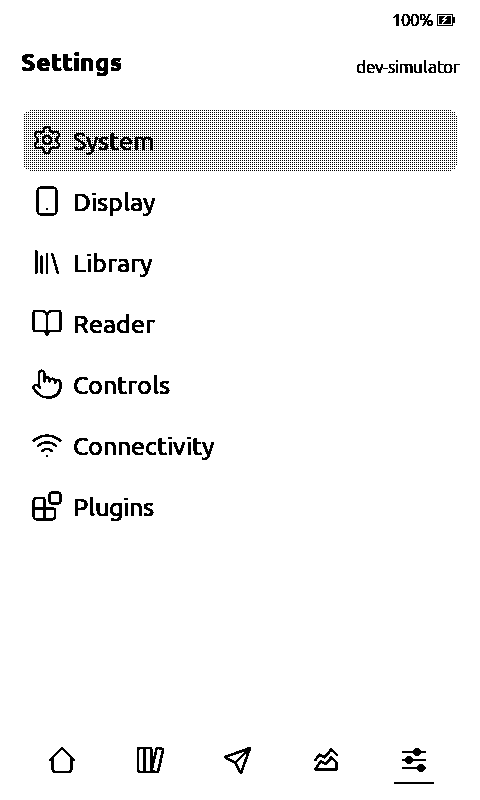
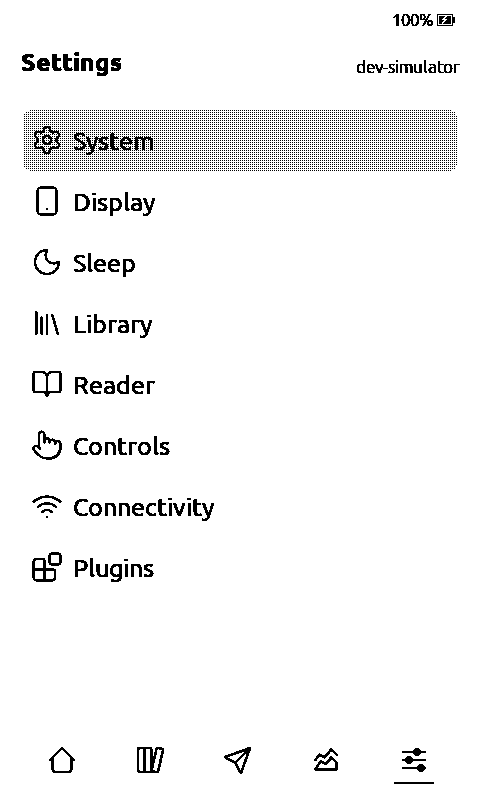
fix: make Sleep its own Settings section
Sleep moves from a sub-screen under Display to a section of its own,
right after Display, with the moon icon. The guide gets a matching
§3.6.3 and the Settings screenshot is retaken.

diff --git a/src/activities/settings/SettingsActivity.cpp b/src/activities/settings/SettingsActivity.cpp
@@ -83,22 +83,20 @@ bool showOnDevice(const SettingInfo& setting) {
 
 // End = not a row here: other categories (KOReader Sync, Status Bar, ...)
 // only group the web UI; their rows live on their own sub-screens.
-// Sleep and Shortcuts belong to a section but open as a sub-screen from a row
-// in it (isSubScreenCategory); a new sub-screen category goes in both functions.
+// Shortcuts belongs to Controls but opens as a sub-screen from a row in it
+// (isSubScreenCategory); a new sub-screen category goes in both functions.
 SettingsSection sectionFor(const SettingInfo& setting) {
   if (setting.category == StrId::STR_CAT_DISPLAY) return SettingsSection::Display;
   if (setting.category == StrId::STR_CAT_READER) return SettingsSection::Reader;
   if (setting.category == StrId::STR_CAT_CONTROLS) return SettingsSection::Controls;
   if (setting.category == StrId::STR_CAT_SYSTEM) return SettingsSection::System;
   if (setting.category == StrId::STR_CAT_LIBRARY) return SettingsSection::Library;
-  if (setting.category == StrId::STR_CAT_SLEEP) return SettingsSection::Display;
+  if (setting.category == StrId::STR_CAT_SLEEP) return SettingsSection::Sleep;
   if (setting.category == StrId::STR_CAT_SHORTCUTS) return SettingsSection::Controls;
   return SettingsSection::End;
 }
 
-bool isSubScreenCategory(const StrId category) {
-  return category == StrId::STR_CAT_SLEEP || category == StrId::STR_CAT_SHORTCUTS;
-}
+bool isSubScreenCategory(const StrId category) { return category == StrId::STR_CAT_SHORTCUTS; }
 
 // Device-only action rows added per section, beyond the shared list (System has the most).
 constexpr size_t EXTRA_ROWS_PER_SECTION = 8;
@@ -159,7 +157,6 @@ void SettingsActivity::rebuildSettings() {
   };
 
   // Sub-screens and per-board configurators lead their section, above its own rows.
-  addAction(SettingsSection::Display, StrId::STR_CAT_SLEEP, SettingAction::SleepSettings);
   addAction(SettingsSection::Reader, StrId::STR_TEXT_SETTINGS, SettingAction::TextSettings);
   addAction(SettingsSection::Controls, StrId::STR_CAT_SHORTCUTS, SettingAction::ShortcutsSettings);
   if (!BoardConfig::hasTouch()) {
@@ -345,11 +342,8 @@ void SettingsActivity::toggleSelectedSetting() {
     auto resultHandler = [this](const ActivityResult&) { SETTINGS.saveToFile(); };
 
     switch (setting.action) {
-      case SettingAction::SleepSettings:
       case SettingAction::ShortcutsSettings: {
-        const StrId category =
-            setting.action == SettingAction::SleepSettings ? StrId::STR_CAT_SLEEP : StrId::STR_CAT_SHORTCUTS;
-        auto activity = makeUniqueNoThrow<SettingsActivity>(renderer, mappedInput, section, category);
+        auto activity = makeUniqueNoThrow<SettingsActivity>(renderer, mappedInput, section, StrId::STR_CAT_SHORTCUTS);
         if (!activity) {
           LOG_ERR("SET", "OOM: settings sub-screen");
           return;

diff --git a/src/activities/settings/SettingsSection.h b/src/activities/settings/SettingsSection.h
@@ -7,11 +7,11 @@
 
 // Top-level groups on the Settings screen, in display order. End doubles as
 // "no section" where one is optional.
-enum class SettingsSection : uint8_t { System, Display, Library, Reader, Controls, Connectivity, End };
+enum class SettingsSection : uint8_t { System, Display, Sleep, Library, Reader, Controls, Connectivity, End };
 
 inline constexpr size_t SETTINGS_SECTION_COUNT = static_cast<size_t>(SettingsSection::End);
 
 inline constexpr StrId SETTINGS_SECTION_TITLES[SETTINGS_SECTION_COUNT] = {
-    StrId::STR_CAT_SYSTEM, StrId::STR_CAT_DISPLAY,  StrId::STR_CAT_LIBRARY,
+    StrId::STR_CAT_SYSTEM, StrId::STR_CAT_DISPLAY,  StrId::STR_CAT_SLEEP,        StrId::STR_CAT_LIBRARY,
     StrId::STR_CAT_READER, StrId::STR_CAT_CONTROLS, StrId::STR_SETTINGS_NETWORK,
 };

diff --git a/src/activities/settings/SettingsActivity.h b/src/activities/settings/SettingsActivity.h
@@ -13,8 +13,8 @@
 #include "components/OptionPopup.h"
 
 // The rows of one SettingsSection; activating a row toggles/cycles it, opens
-// its option popup, or launches its sub-screen. With a subCategory (Sleep,
-// Shortcuts) it lists only that category's rows, reached from a row in section.
+// its option popup, or launches its sub-screen. With a subCategory (Shortcuts)
+// it lists only that category's rows, reached from a row in section.
 class SettingsActivity final : public UiListActivity {
   const SettingsSection section;
   const StrId subCategory;

diff --git a/src/activities/settings/SettingsListActivity.cpp b/src/activities/settings/SettingsListActivity.cpp
@@ -19,7 +19,8 @@ namespace {
 constexpr int16_t ICON_SIZE = 32;
 // Row icons, indexed by SettingsSection.
 constexpr const freeink::Icon* SECTION_ICONS[SETTINGS_SECTION_COUNT] = {
-    &icon_settings_32, &icon_smartphone_32, &icon_library_32, &icon_book_open_32, &icon_pointer_32, &icon_wifi_32,
+    &icon_settings_32,  &icon_smartphone_32, &icon_moon_32, &icon_library_32,
+    &icon_book_open_32, &icon_pointer_32,    &icon_wifi_32,
 };
 }  // namespace
 

diff --git a/USER_GUIDE.md b/USER_GUIDE.md
@@ -33,13 +33,14 @@ Welcome to the **CrossPoint** firmware. This guide outlines the hardware control
     - [3.6 Settings](#36-settings)
       - [3.6.1 System](#361-system)
       - [3.6.2 Display](#362-display)
-      - [3.6.3 Library](#363-library)
-      - [3.6.4 Reader](#364-reader)
-      - [3.6.5 Controls](#365-controls)
-      - [3.6.6 Connectivity](#366-connectivity)
-      - [3.6.7 OPDS Servers (Multiple Libraries)](#367-opds-servers-multiple-libraries)
-      - [3.6.8 Web Settings (Wi-Fi + OPDS)](#368-web-settings-wi-fi--opds)
-      - [3.6.9 KOReader Sync Quick Setup](#369-koreader-sync-quick-setup)
+      - [3.6.3 Sleep](#363-sleep)
+      - [3.6.4 Library](#364-library)
+      - [3.6.5 Reader](#365-reader)
+      - [3.6.6 Controls](#366-controls)
+      - [3.6.7 Connectivity](#367-connectivity)
+      - [3.6.8 OPDS Servers (Multiple Libraries)](#368-opds-servers-multiple-libraries)
+      - [3.6.9 Web Settings (Wi-Fi + OPDS)](#369-web-settings-wi-fi--opds)
+      - [3.6.10 KOReader Sync Quick Setup](#3610-koreader-sync-quick-setup)
         - [Option A: CrossPoint Sync Server (`sync.crosspointreader.com`, default)](#option-a-crosspoint-sync-server-synccrosspointreadercom-default)
         - [Option B: Legacy Public KOReader Server (`sync.koreader.rocks`)](#option-b-legacy-public-koreader-server-synckoreaderrocks)
         - [Option C: Self-Hosted Server (Docker Compose)](#option-c-self-hosted-server-docker-compose)
@@ -89,7 +90,7 @@ The device utilises the standard buttons on the Xteink X4 (in the same layout as
 | **Bottom Edge** | **Back**, **Confirm**, **Left**, **Right**           |
 | **Right Side**  | **Power**, **Side Up**, **Side Down**, **Reset** |
 
-Button layout can be customized in the **[Controls Settings](#365-controls)**.
+Button layout can be customized in the **[Controls Settings](#366-controls)**.
 
 ### Taking a Screenshot
 
@@ -116,7 +117,7 @@ The X4 Pro and the M5Stack Paper Mono have a built-in frontlight. The X4 Pro has
 > [!NOTE]
 > Frontlight brightness and warmth are intentionally not listed in **[Display Settings](#362-display)**: the swipe panel is the only place to adjust them. The on/off state can also be toggled with the Power-button double-click above.
 
-If the frontlight doesn't come back on after the device wakes from sleep, check **Restore Light on Wake** in **Settings → Display → Sleep** (on by default). Turning it off is intentional if you'd rather have the light stay off on wake and switch it on yourself each time, but it's easy to forget you changed it.
+If the frontlight doesn't come back on after the device wakes from sleep, check **Restore Light on Wake** in **Settings → Sleep** (on by default). Turning it off is intentional if you'd rather have the light stay off on wake and switch it on yourself each time, but it's easy to forget you changed it.
 
 ---
 
@@ -125,7 +126,7 @@ If the frontlight doesn't come back on after the device wakes from sleep, check 
 ### Power On / Off
 
 To turn the device on or off, **press and hold the Power button for approximately half a second**.
-In the **[Controls Settings](#365-controls)** you can configure the power button to turn the device off with a short press instead of a long one.
+In the **[Controls Settings](#366-controls)** you can configure the power button to turn the device off with a short press instead of a long one.
 
 To reboot the device (for example after a firmware update or if it's frozen), press and release the Reset button, and then quickly press and hold the Power button for a few seconds.
 
@@ -279,8 +280,8 @@ Books cannot be removed from your device through Calibre. Use the web interface 
 
 ### 3.6 Settings
 
-The Settings screen allows you to configure the device's behavior. It lists six sections, **System**, **Display**,
-**Library**, **Reader**, **Controls** and **Connectivity**, and each opens its own screen with the settings below.
+The Settings screen allows you to configure the device's behavior. It lists seven sections, **System**, **Display**,
+**Sleep**, **Library**, **Reader**, **Controls** and **Connectivity**, and each opens its own screen with the settings below.
 While **Plugins** is switched on under System, a **Plugins** entry follows them and opens the installed plugins.
 
 Settings that are on or off show a switch on the right of their row instead of the words "ON" and "OFF".
@@ -313,10 +314,32 @@ list inside **Text Settings**.
 
 #### 3.6.2 Display
 
-- **Sleep**: Opens the sleep settings, gathered on one screen, in this order: Sleep Screen, Sleep Screen Cover Mode,
-  Sleep Screen Cover Filter, Quick Resume on Timeout, Time to Sleep, and Restore Light on Wake (described under
-  [Frontlight](#frontlight-x4-pro-only)). They live there rather than in the Display list itself; each is described
-  below.
+- **Status Bar**: Set up under **Reader Settings → Customise Status Bar**, piece by piece: the chapter page count, the book progress percentage, a progress bar (for the book, for the chapter, or hidden) and its thickness, the title, and the battery.
+  - **Time Left**: an estimate of the reading time left in the chapter or the book (default: hidden). It is shown before the page count, e.g. "12 min". It learns from how long you stay on each page as you turn forward, ignoring pages you skip past in under 2 seconds or leave open for more than 30 minutes. Each book keeps its own reading speed, and the estimate appears once about five pages have been timed.
+
+- **Hide Battery %**: Configure where to suppress the battery percentage display in the status bar; the battery icon will still be shown:
+  
+  - "Never" (default) - Always show battery percentage
+  - "In Reader" - Show battery percentage everywhere except in reading mode
+  - "Always" - Always hide battery percentage
+
+- **Refresh Frequency**: Set how often the screen does a full refresh while reading to reduce ghosting; options are every 1, 5, 10, 15, or 30 pages, or Never. In manga each panel step counts as a page.
+
+- **UI Theme**: Set which UI theme to use:
+  
+  - "Classic" - The original Crosspoint theme
+  - "Lyra" - The new theme for Crosspoint featuring rounded elements and menu icons
+  - "Lyra Extended" - Lyra, but displays 3 books instead of 1 on the **[Home Screen](#31-home-screen)**
+  - "RoundedRaff" - A rounded theme with additional visual styling
+  - "Cover Grid" - Home as a grid of covers, with a tab bar along the bottom (see [3.1.1](#311-tabs-and-button-navigation-cover-grid-theme)). Available on every device, buttons or touch; it is the default on touch devices, and the others start on Lyra
+
+- **Sunlight Fading Fix** (off by default): A software fix for white X4 models that fade in direct sunlight.
+
+- **Night Mode** (off by default): Inverts the whole display, white text on black, on every screen.
+
+- **Show Hidden Files** (off by default): Lists files and folders whose names start with `.` in the file browser.
+
+#### 3.6.3 Sleep
 
 - **Sleep Screen**: Which sleep screen to display when the device sleeps:
   
@@ -343,32 +366,9 @@ list inside **Text Settings**.
 
 - **Time to Sleep**: Set the duration of inactivity before the device automatically goes to sleep; from 1 to 30 minutes, or Never.
 
-- **Status Bar**: Set up under **Reader Settings → Customise Status Bar**, piece by piece: the chapter page count, the book progress percentage, a progress bar (for the book, for the chapter, or hidden) and its thickness, the title, and the battery.
-  - **Time Left**: an estimate of the reading time left in the chapter or the book (default: hidden). It is shown before the page count, e.g. "12 min". It learns from how long you stay on each page as you turn forward, ignoring pages you skip past in under 2 seconds or leave open for more than 30 minutes. Each book keeps its own reading speed, and the estimate appears once about five pages have been timed.
+- **Restore Light on Wake** (devices with a frontlight only): See [Frontlight](#frontlight-x4-pro-and-paper-mono).
 
-- **Hide Battery %**: Configure where to suppress the battery percentage display in the status bar; the battery icon will still be shown:
-  
-  - "Never" (default) - Always show battery percentage
-  - "In Reader" - Show battery percentage everywhere except in reading mode
-  - "Always" - Always hide battery percentage
-
-- **Refresh Frequency**: Set how often the screen does a full refresh while reading to reduce ghosting; options are every 1, 5, 10, 15, or 30 pages, or Never. In manga each panel step counts as a page.
-
-- **UI Theme**: Set which UI theme to use:
-  
-  - "Classic" - The original Crosspoint theme
-  - "Lyra" - The new theme for Crosspoint featuring rounded elements and menu icons
-  - "Lyra Extended" - Lyra, but displays 3 books instead of 1 on the **[Home Screen](#31-home-screen)**
-  - "RoundedRaff" - A rounded theme with additional visual styling
-  - "Cover Grid" - Home as a grid of covers, with a tab bar along the bottom (see [3.1.1](#311-tabs-and-button-navigation-cover-grid-theme)). Available on every device, buttons or touch; it is the default on touch devices, and the others start on Lyra
-
-- **Sunlight Fading Fix** (off by default): A software fix for white X4 models that fade in direct sunlight.
-
-- **Night Mode** (off by default): Inverts the whole display, white text on black, on every screen.
-
-- **Show Hidden Files** (off by default): Lists files and folders whose names start with `.` in the file browser.
-
-#### 3.6.3 Library
+#### 3.6.4 Library
 
 - **Library View**: Which screen the Library entry opens: "Matcha Covers" (default), the cover grid, or
   "CrossPoint List", the indexed title/author list described in [Library Screen](#34-library-screen)
@@ -383,7 +383,7 @@ selected, leaving Library View and Move finished books to Read: the index rebuil
 metadata toggle both feed the list's index, which the cover grid does not use, and the cover
 grid shows every book the card scan finds rather than a recent list.
 
-#### 3.6.4 Reader
+#### 3.6.5 Reader
 
 - **Reader Font Family**: Choose the font used for reading:
   
@@ -431,7 +431,7 @@ grid shows every book the card scan finds rather than a recent list.
 
 - **Focus Reading**: Bolds the first part of each word to create visual fixation points, similar to Bionic Reading. This can help improve reading speed and focus; options are "ON" or "OFF" (default).
 
-#### 3.6.5 Controls
+#### 3.6.6 Controls
 
 - **Shortcuts**: Opens the button-shortcut settings, gathered on one screen: **Home Button Gestures** first on devices with a
   Home key, then **Long-Press Button Behavior**,
@@ -512,7 +512,7 @@ grid shows every book the card scan finds rather than a recent list.
 
 - **Quick return from links**: Toggles on and off the quick return functionality from the footnotes. When the functionality it's active, a short press of the power button will act as the back button from the footnotes page.
 
-#### 3.6.6 Connectivity
+#### 3.6.7 Connectivity
 
 - **Wi-Fi Networks**: Connect to Wi-Fi networks for file transfers and firmware updates.
 
@@ -520,9 +520,9 @@ grid shows every book the card scan finds rather than a recent list.
 
 - **CrossPoint Sync**: Settings for syncing book progress with CrossPoint Sync or a compatible KOSync server. **Smart sync** is the default for new configurations and auto-resolves simple push/pull decisions. Existing credential files retain **Ask every time** when migrated; you can switch Sync Behavior at any time if you prefer manual confirmation.
 
-- **OPDS Servers**: Manage one or more OPDS [(Open Publication Distribution System)](https://en.wikipedia.org/wiki/Open_Publication_Distribution_System) libraries for browsing and downloading books. See [OPDS Servers (Multiple Libraries)](#367-opds-servers-multiple-libraries) below.
+- **OPDS Servers**: Manage one or more OPDS [(Open Publication Distribution System)](https://en.wikipedia.org/wiki/Open_Publication_Distribution_System) libraries for browsing and downloading books. See [OPDS Servers (Multiple Libraries)](#368-opds-servers-multiple-libraries) below.
 
-#### 3.6.7 OPDS Servers (Multiple Libraries)
+#### 3.6.8 OPDS Servers (Multiple Libraries)
 
 CrossPoint supports saving multiple OPDS servers and switching between them when browsing catalogs.
 
@@ -562,9 +562,9 @@ You can also manage OPDS servers from the web interface while in File Transfer m
 2. Open `http://<device-ip>/settings`.
 3. Use the **OPDS Servers** card to add, edit, or delete entries.
 
-For web-based Wi-Fi network management, see [Web Settings (Wi-Fi + OPDS)](#368-web-settings-wi-fi--opds).
+For web-based Wi-Fi network management, see [Web Settings (Wi-Fi + OPDS)](#369-web-settings-wi-fi--opds).
 
-#### 3.6.8 Web Settings (Wi-Fi + OPDS)
+#### 3.6.9 Web Settings (Wi-Fi + OPDS)
 
 While in **File Transfer** mode, the web settings page includes management cards for both **Wi-Fi Networks** and **OPDS Servers**.
 
@@ -579,7 +579,7 @@ Behavior notes:
 - Leaving Password blank while editing keeps the existing saved password unchanged.
 - The web UI can save hidden-network SSIDs, but connecting to hidden networks still depends on the device-side Wi-Fi connection flow.
 
-#### 3.6.9 KOReader Sync Quick Setup
+#### 3.6.10 KOReader Sync Quick Setup
 
 CrossPoint can sync reading progress with KOReader-compatible sync servers.
 It also interoperates with KOReader apps/devices when they use the same server and credentials.
@@ -864,7 +864,7 @@ If the **Short Power Button Click** setting is set to "Next Page", you can also 
 * **Next Chapter:** Press and **hold** the **Right** (or **Side Down**) button briefly, then release.
 * **Previous Chapter:** Press and **hold** the **Left** (or **Side Up**) button briefly, then release.
 
-This feature can be disabled in the **[Controls Settings](#365-controls)** to help avoid changing chapters by mistake.
+This feature can be disabled in the **[Controls Settings](#366-controls)** to help avoid changing chapters by mistake.
 
 ### Auto Page Turn
 
@@ -897,7 +897,7 @@ tap outside the panel returns to the page.
 
 ### Dictionary Lookup
 
-Words on the current page can be looked up in an offline StarDict dictionary stored on the SD card. Copy a dictionary to the `/dictionaries/` folder (or `/.dictionaries/`, see [6.7](#67-dictionary-files-and-language-selection)), select it in **Settings → Reader → Dictionary**, then start a lookup by choosing **Look Up** in the **[Reader Menu](#5-reader-menu)** (or by holding **Confirm**, if the **Long-press Menu** setting in **[Controls Settings](#365-controls)** is set to "Dictionary"). Use **Left/Right** to highlight a word and press **Confirm** to show its definition.
+Words on the current page can be looked up in an offline StarDict dictionary stored on the SD card. Copy a dictionary to the `/dictionaries/` folder (or `/.dictionaries/`, see [6.7](#67-dictionary-files-and-language-selection)), select it in **Settings → Reader → Dictionary**, then start a lookup by choosing **Look Up** in the **[Reader Menu](#5-reader-menu)** (or by holding **Confirm**, if the **Long-press Menu** setting in **[Controls Settings](#366-controls)** is set to "Dictionary"). Use **Left/Right** to highlight a word and press **Confirm** to show its definition.
 
 On a touch device you can skip all of that: **long-press a word on the page** and its definition opens directly, with no setting to turn on first. A press between words opens ordinary word selection instead. The definition card pages by touch the way the reader is set to turn pages in **Touch Reader Controls**, and a tap outside it puts it away.
 
@@ -908,7 +908,7 @@ See [docs/dictionary.md](docs/dictionary.md) for supported formats, setup, and w
 * **Return to Home:** Press the **Back** button to close the book and return to the **[Home](#31-home-screen)** screen.
 * **Return to Browse Files:** Press and hold the **Back** button to close the book and return to the **[Browse Files](#33-browse-files-screen)** screen.
 * **Reader Menu:** Press **Confirm** to open the **[Reader Menu](#5-reader-menu)**, which includes chapter navigation, reading options, and more.
-* **Long-press Confirm (configurable):** Holding **Confirm** runs the function chosen by the **Long-press Menu** setting in **[Controls Settings](#365-controls)**: "Bookmark" (default) drops a bookmark, "KOSync" launches KOReader Sync, "Dictionary" starts a word lookup, "Create Clipping" starts a text selection, "Disabled" does nothing. A short press always opens the Reader Menu.
+* **Long-press Confirm (configurable):** Holding **Confirm** runs the function chosen by the **Long-press Menu** setting in **[Controls Settings](#366-controls)**: "Bookmark" (default) drops a bookmark, "KOSync" launches KOReader Sync, "Dictionary" starts a word lookup, "Create Clipping" starts a text selection, "Disabled" does nothing. A short press always opens the Reader Menu.
 
 ### Supported Languages
 
@@ -941,7 +941,7 @@ Available options include:
 - **Take screenshot**: Save a screenshot of the current page to the `screenshots/` folder.
 - **Show page as QR**: Display a QR code encoding the current reading position.
 - **Go Home**: Close the book and return to the Home screen.
-- **Sync Progress**: Push or pull reading progress with a KOReader sync server (see [KOReader Sync Quick Setup](#369-koreader-sync-quick-setup)).
+- **Sync Progress**: Push or pull reading progress with a KOReader sync server (see [KOReader Sync Quick Setup](#3610-koreader-sync-quick-setup)).
 - **Delete Book Cache**: Clear the cached layout data for the current book, forcing a re-index on next open.
 
 Matcha adds **Word Lookup**, **Translate Page**, **Reader Settings**, **Toggle Bookmark** and **Night Mode** to the menu; see [§6](#6-language-learning-features).
